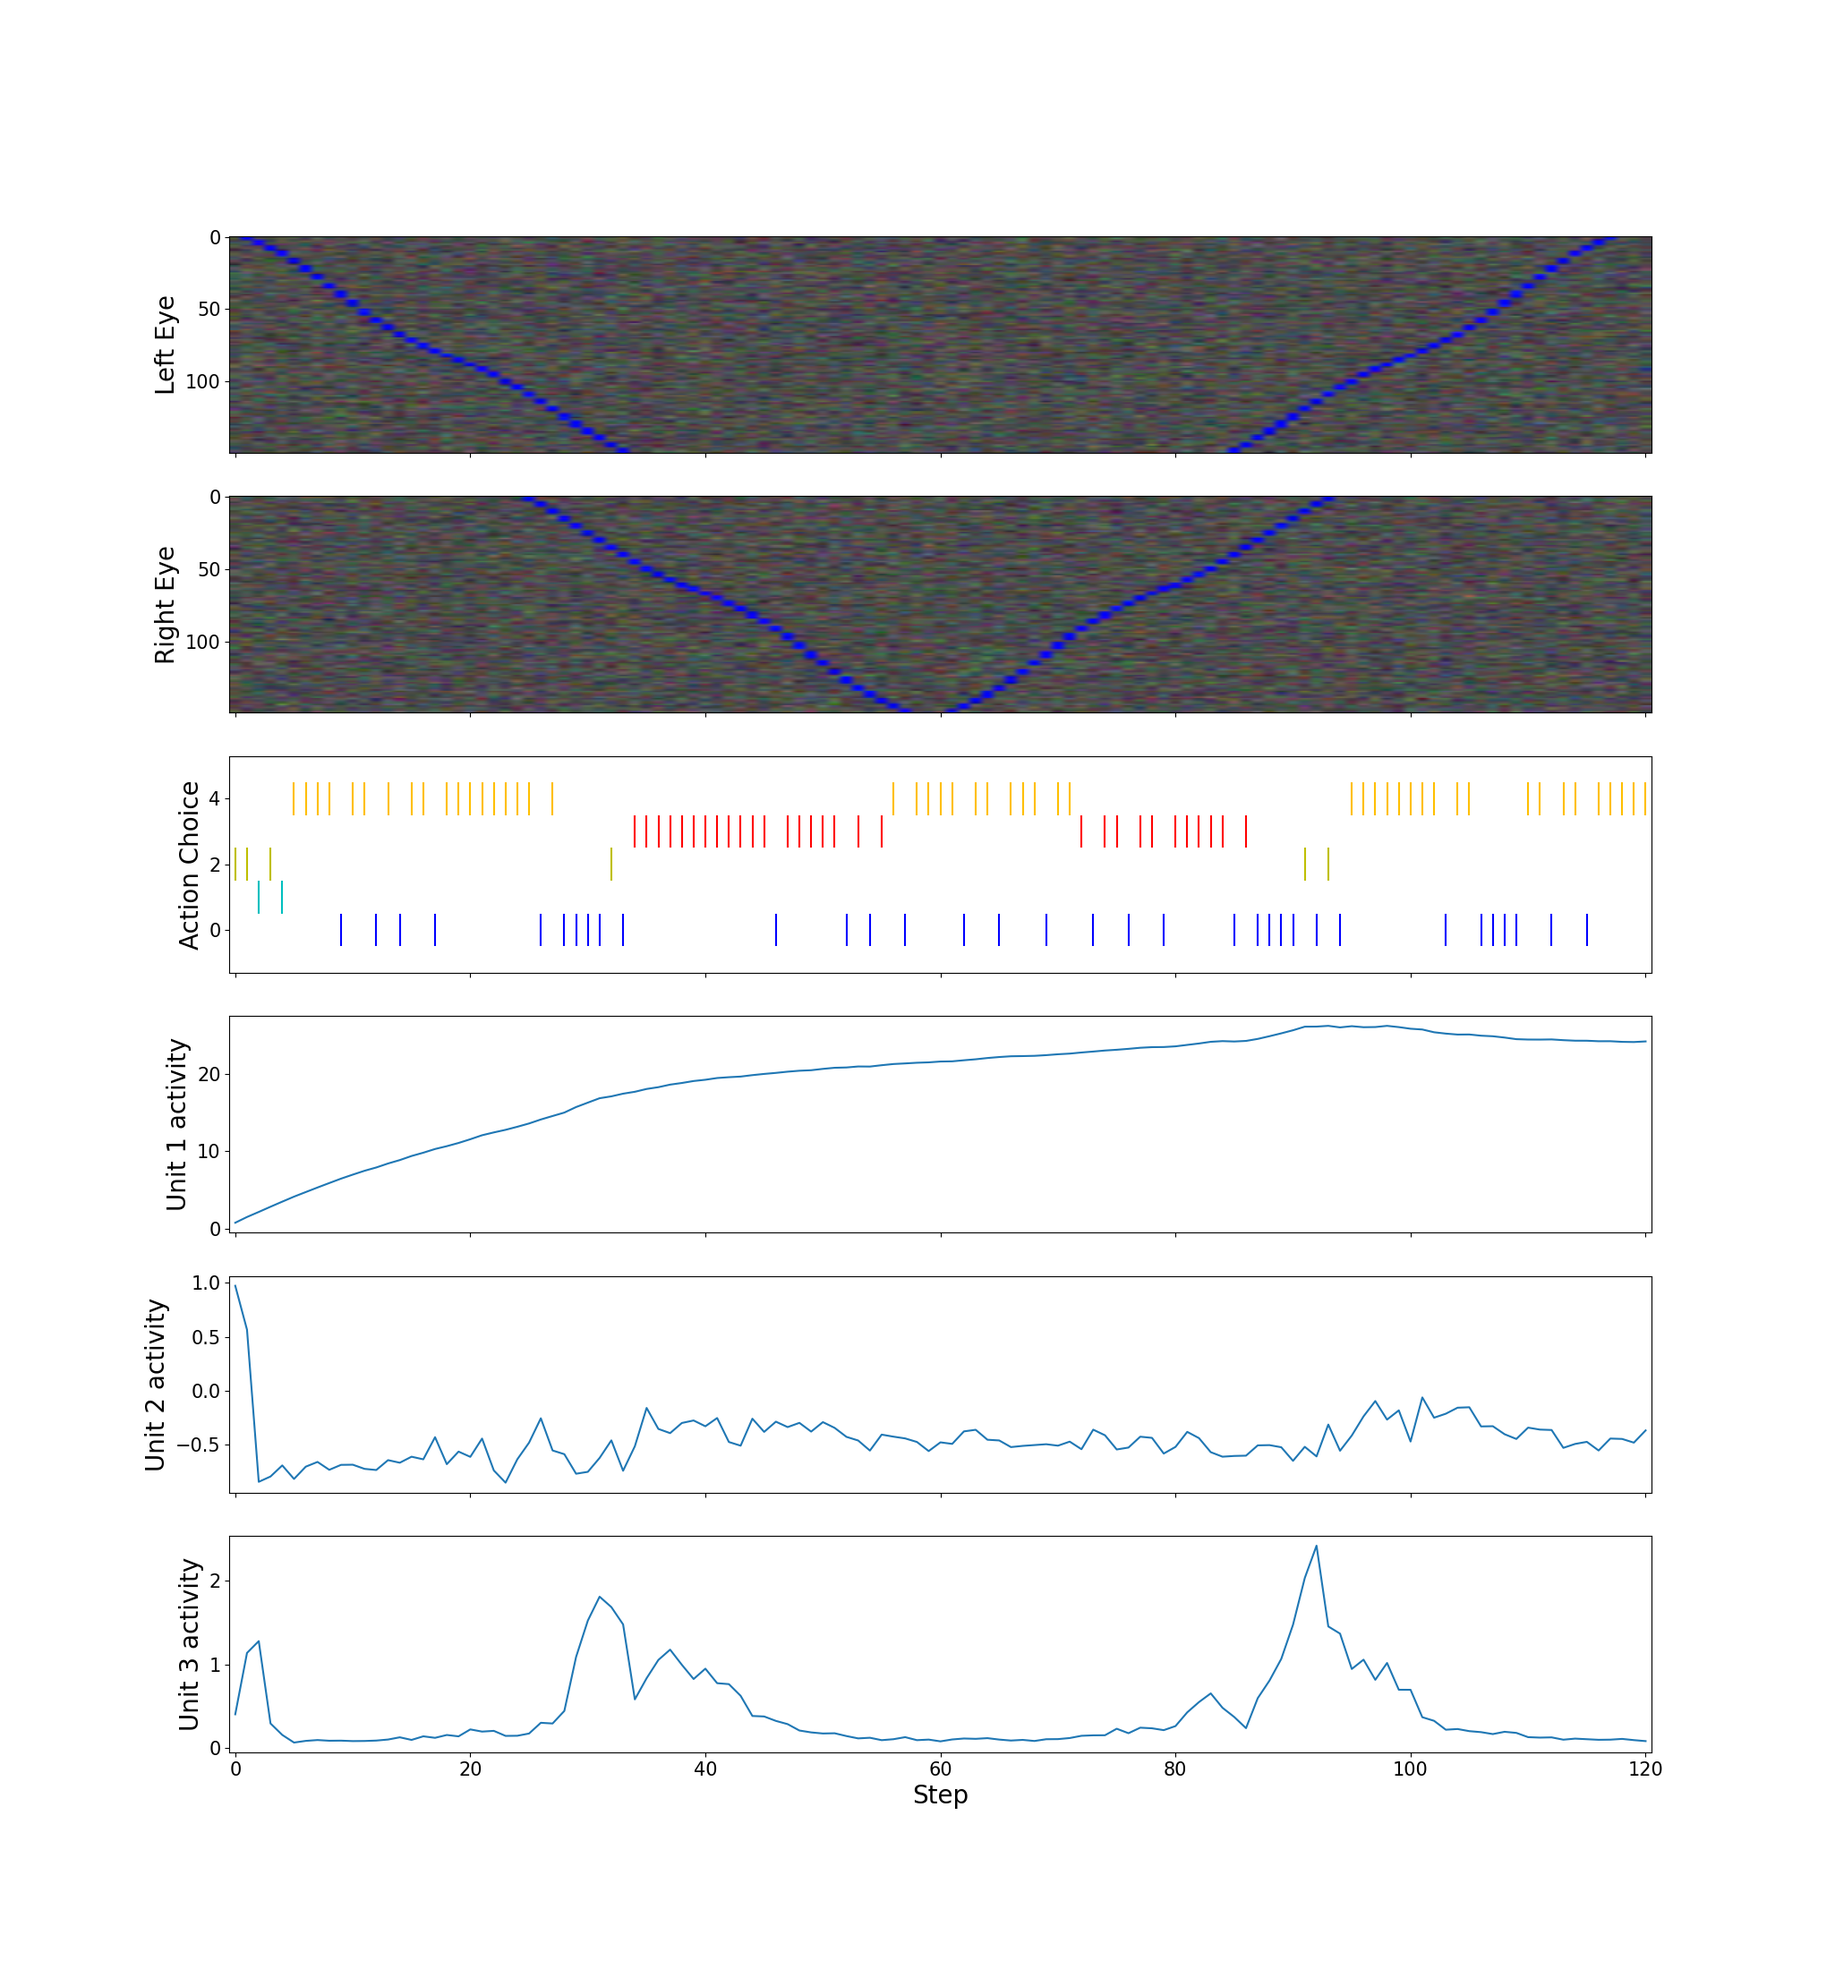
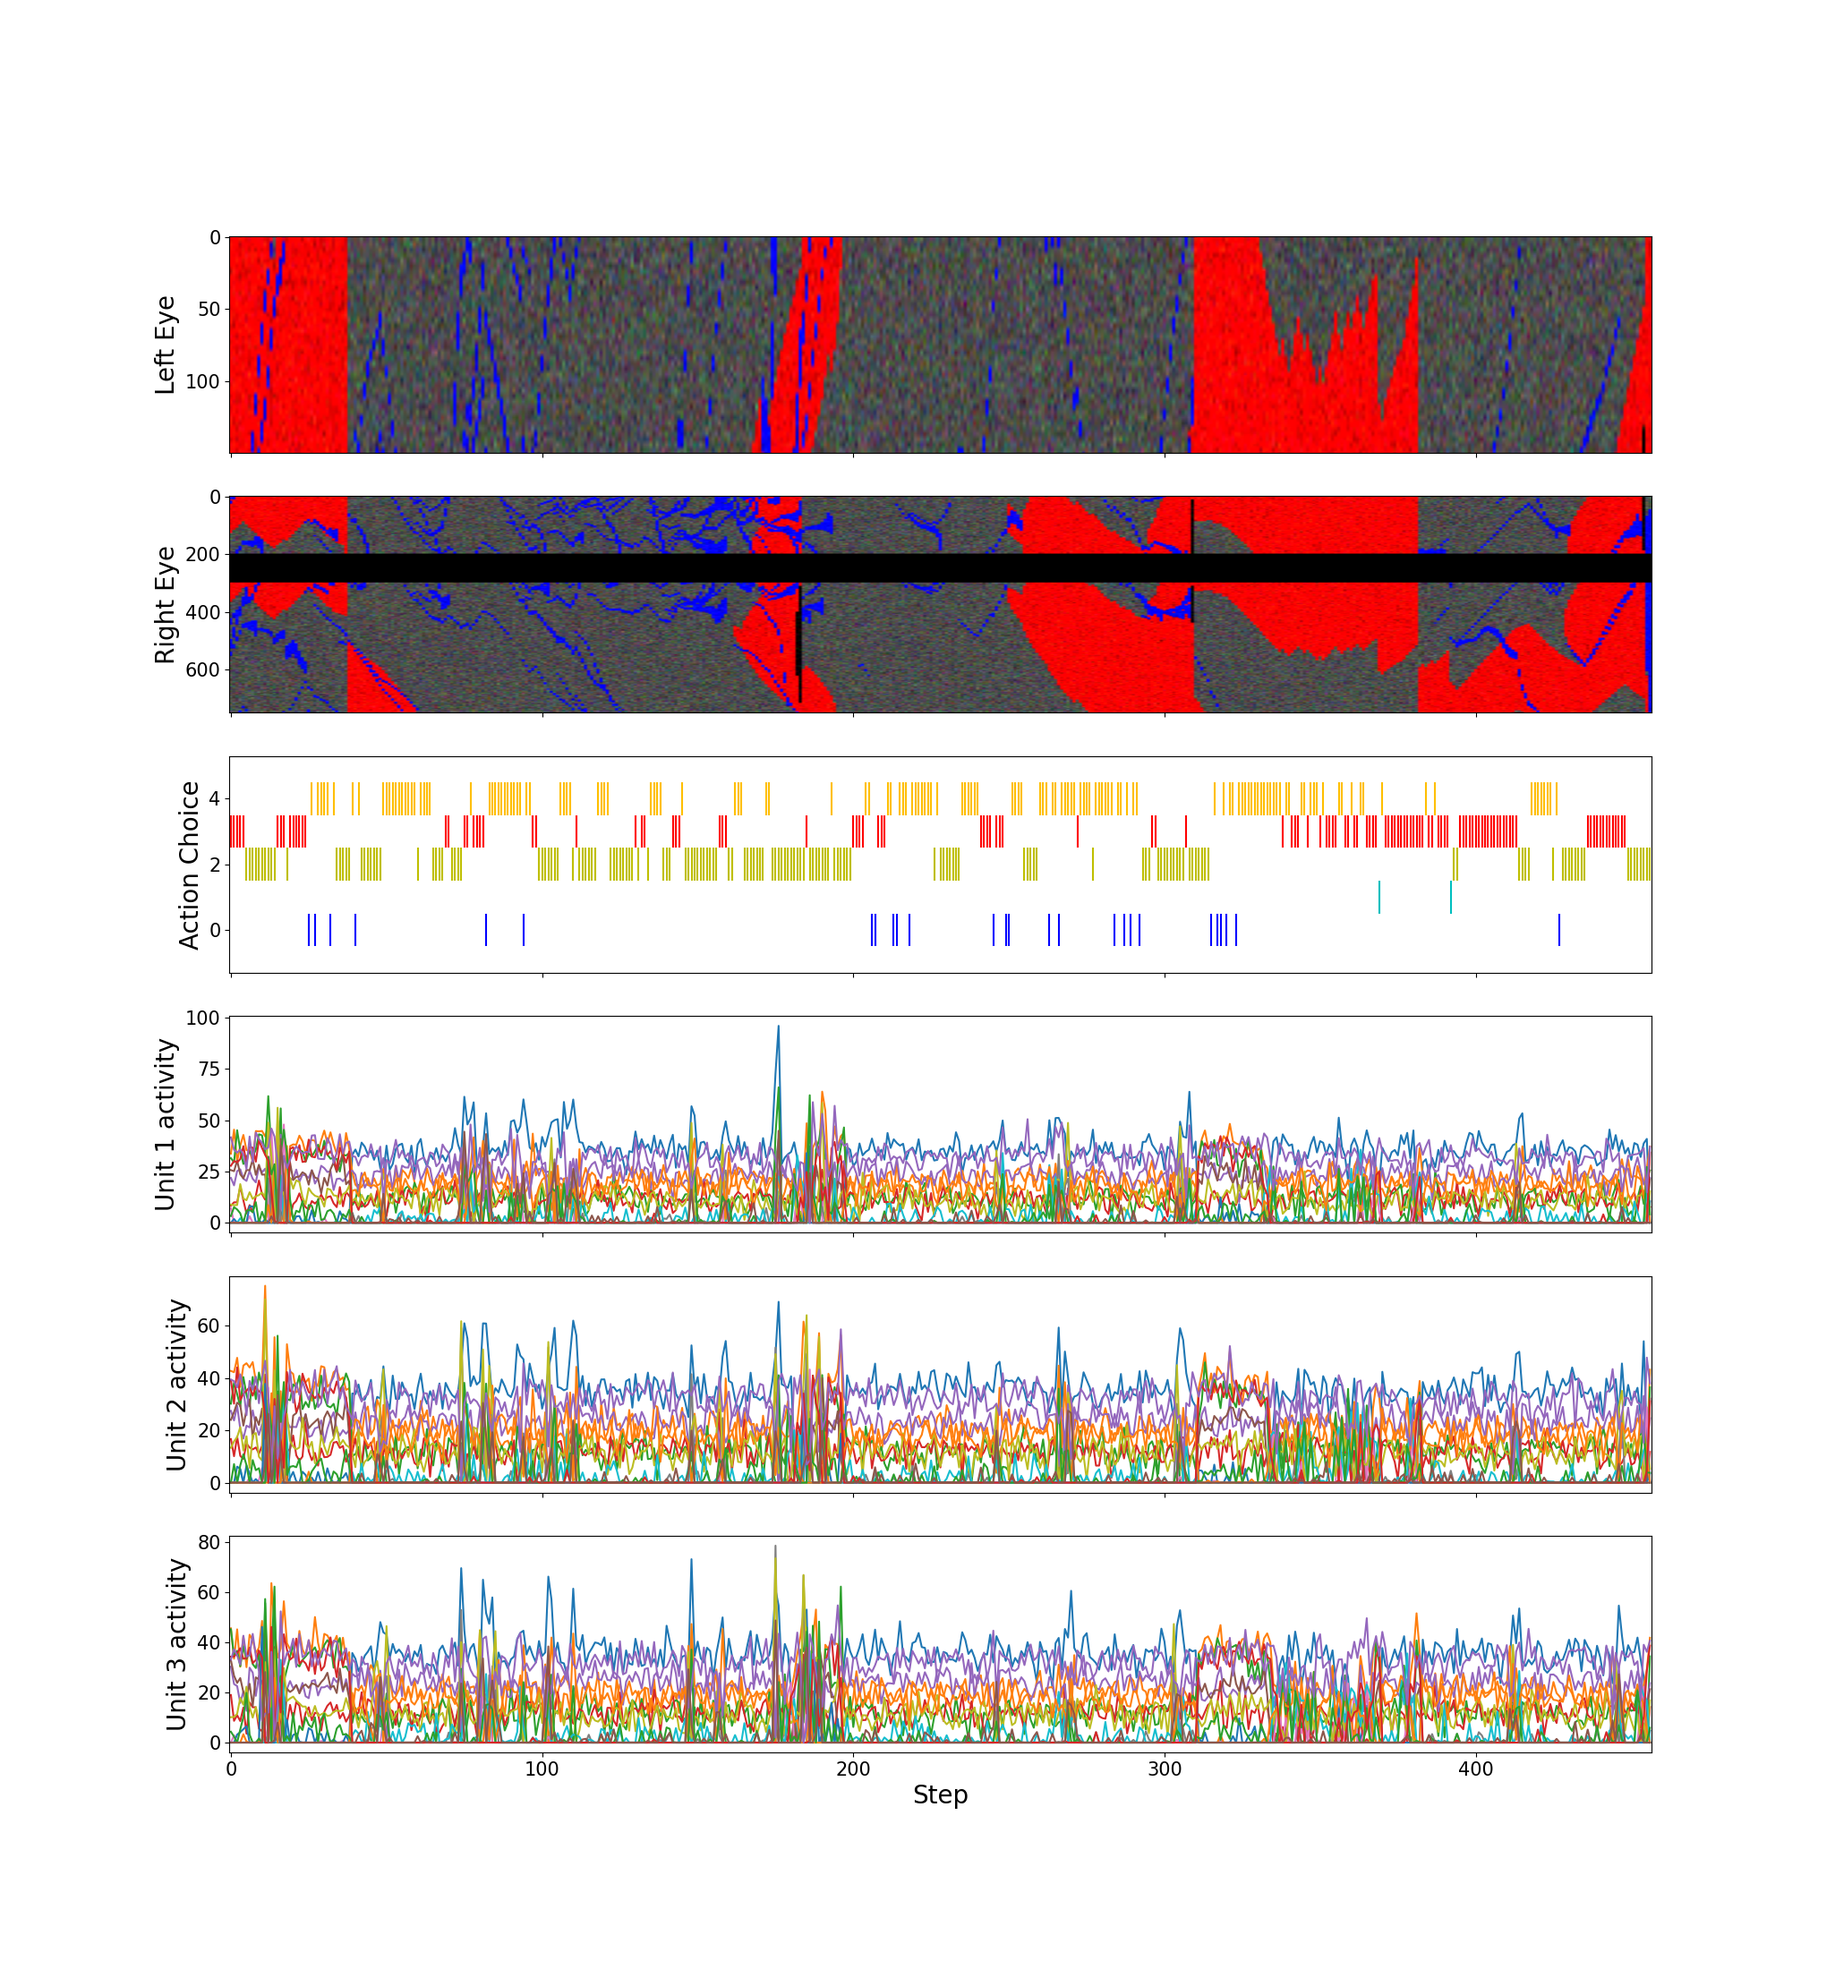
Some analysis script modifications. Added in saving of conv data.

diff --git a/Services/assay_service.py b/Services/assay_service.py
@@ -90,7 +90,8 @@ class AssayService:
         :return:
         """
         if assay["stimulus paradigm"] == "Projection":
-            self.simulation = ControlledStimulusEnvironment(self.environment_params, assay["stimuli"], self.realistic_bouts,
+            self.simulation = ControlledStimulusEnvironment(self.environment_params, assay["stimuli"],
+                                                            self.realistic_bouts,
                                                             tethered=assay["fish setup"])
         elif assay["stimulus paradigm"] == "Naturalistic":
             self.simulation = NaturalisticEnvironment(self.environment_params, self.realistic_bouts)
@@ -152,15 +153,19 @@ class AssayService:
                 break
 
     def step_loop(self, o, internal_state, a, rnn_state):
-        chosen_a, updated_rnn_state, sa, sv = self.sess.run(
-            [self.network.predict, self.network.rnn_state, self.network.streamA, self.network.streamV],
-            feed_dict={self.network.observation: o,
-                       self.network.internal_state: internal_state,
-                       self.network.prev_actions: [a],
-                       self.network.trainLength: 1,
-                       self.network.state_in: rnn_state,
-                       self.network.batch_size: 1,
-                       self.network.exp_keep: 1.0})
+        chosen_a, updated_rnn_state, sa, sv, conv1l, conv2l, conv3l, conv4l, conv1r, conv2r, conv3r, conv4r = \
+            self.sess.run(
+                [self.network.predict, self.network.rnn_state, self.network.streamA, self.network.streamV,
+                 self.network.conv1l, self.network.conv2l, self.network.conv3l, self.network.conv4l,
+                 self.network.conv1r, self.network.conv2r, self.network.conv3r, self.network.conv4r
+                 ],
+                feed_dict={self.network.observation: o,
+                           self.network.internal_state: internal_state,
+                           self.network.prev_actions: [a],
+                           self.network.trainLength: 1,
+                           self.network.state_in: rnn_state,
+                           self.network.batch_size: 1,
+                           self.network.exp_keep: 1.0})
         chosen_a = chosen_a[0]
         o1, given_reward, internal_state, d, self.frame_buffer = self.simulation.simulation_step(action=chosen_a,
                                                                                                  frame_buffer=self.frame_buffer,
@@ -171,7 +176,8 @@ class AssayService:
         possible_data_to_save = self.package_output_data(chosen_a, sa, updated_rnn_state,
                                                          self.simulation.fish.body.position,
                                                          self.simulation.prey_consumed_this_step,
-                                                         self.simulation.predator_body)  # TODO: Add in here
+                                                         self.simulation.predator_body,
+                                                         conv1l, conv2l, conv3l, conv4l, conv1r, conv2r, conv3r, conv4r)
         for key in self.assay_output_data_format:
             self.output_data[key].append(possible_data_to_save[key])
         self.output_data["step"].append(self.step_number)
@@ -215,7 +221,8 @@ class AssayService:
         with open(f"{self.data_save_location}/{self.assay_configuration_id}.json", "w") as output_file:
             json.dump(self.metadata, output_file)
 
-    def package_output_data(self, action, advantage_stream, rnn_state, position, prey_consumed, predator_body):
+    def package_output_data(self, action, advantage_stream, rnn_state, position, prey_consumed, predator_body,
+                            conv1l, conv2l, conv3l, conv4l, conv1r, conv2r, conv3r, conv4r,):
         """
 
         :param action:
@@ -240,7 +247,15 @@ class AssayService:
             "advantage stream": advantage_stream,
             "position": position,
             "observation": observation,
-        }  # Will work for now but note is inefficient # TODO: Add in here
+            "left_conv_1": conv1l,
+            "left_conv_2": conv2l,
+            "left_conv_3": conv3l,
+            "left_conv_4": conv4l,
+            "right_conv_1": conv1r,
+            "right_conv_2": conv2r,
+            "right_conv_3": conv3r,
+            "right_conv_4": conv4r,
+        }
 
         if prey_consumed:
             data["consumed"] = 1
@@ -267,7 +282,8 @@ class AssayService:
         # Saves all the information from the assays in JSON format.
         if assay["save frames"]:
             make_gif(self.frame_buffer, f"{self.data_save_location}/{assay['assay id']}.gif",
-                     duration=len(self.frame_buffer) * self.learning_params['time_per_step'], true_image=True) # TODO: Remove 100 to change back to normal.
+                     duration=len(self.frame_buffer) * self.learning_params['time_per_step'],
+                     true_image=True)  # TODO: Remove 100 to change back to normal.
         self.frame_buffer = []
         with open(f"{self.data_save_location}/{assay['assay id']}.json", "w") as output_file:
             json.dump(self.assay_output_data, output_file)

diff --git a/Analysis-Tools/plot_observation_action_choice_and_activity.py b/Analysis-Tools/plot_observation_action_choice_and_activity.py
@@ -51,29 +51,37 @@ def plot_all(rnn_data, observation, action_choice):
     fig.savefig('test2png.png', dpi=100)
     plt.show()
 
+
 def convert_photons_to_int(obs):
-    new_obs = np.zeros((121, 400, 3), int)
+    obs = np.array(obs)
+
+    new_obs = np.zeros(obs.shape, int)
     for i, time in enumerate(obs):
+        # if i == 121:
+        #     break
         for j, point in enumerate(obs[i]):
+            # if j == 400:
+            #     break
             for k, receptor in enumerate(obs[i][j]):
                 new_obs[i][j][k] = round(receptor)
     return new_obs
 
 
-data = load_data("Prey Stimuli", "Visual-Stimulus-Assay-2", "realistic_action_space-1")
+data = load_data("simple_actions", "All-Features", "realistic_all_features-1")
 
 # rnn_unit_1 = [i["rnn state"][0][0] for i in data]
 # rnn_unit_2 = [i["rnn state"][0][1] for i in data]
 # rnn_unit_3 = [i["rnn state"][0][2] for i in data]
 # rnn_unit_200 = [i["rnn state"][0][199] for i in data]
 
-rnn_unit_1 = [data["rnn state"][i-1][0][0] for i in data["step"]]
-rnn_unit_3 = [data["rnn state"][i-1][0][19] for i in data["step"]]
-rnn_unit_200 = [data["rnn state"][i-1][0][190] for i in data["step"]]
+conv_unit_1 = [data["left_conv_1"][i-1][0][0] for i in data["step"]]
+conv_unit_2 = [data["left_conv_1"][i-1][0][1] for i in data["step"]]
+conv_unit_3 = [data["left_conv_1"][i-1][0][2] for i in data["step"]]
+conv_unit_4 = [data["left_conv_1"][i-1][0][26] for i in data["step"]]
 
 
 action_choice = data["behavioural choice"]
-unit_activity = [rnn_unit_1, rnn_unit_3, rnn_unit_200]
+unit_activity = [conv_unit_1, conv_unit_2, conv_unit_3, conv_unit_4]
 
 
 observation = data["observation"]

diff --git a/Analysis-Tools/plot_activity.py b/Analysis-Tools/plot_activity.py
@@ -28,13 +28,13 @@ def plot_activity(rnn_data):
     plt.show()
 
 
-data = load_data("Prey Stimuli", "Visual-Stimulus-Assay-2")
+data = load_data("simple_actions", "All-Features", "realistic_all_features-1")
 
 
-rnn_unit_1 = [i["rnn state"][0][0] for i in data]
-rnn_unit_2 = [i["rnn state"][0][1] for i in data]
-rnn_unit_3 = [i["rnn state"][0][2] for i in data]
-rnn_unit_200 = [i["rnn state"][0][199] for i in data]
+rnn_unit_1 = [data["rnn state"][i-1][0][0] for i in data["step"]]
+rnn_unit_3 = [data["rnn state"][i-1][0][19] for i in data["step"]]
+rnn_unit_200 = [data["rnn state"][i-1][0][190] for i in data["step"]]
+conv_unit_1 = [data["left_conv_1"][i-1][0][0] for i in data["step"]]
 
-unit_activity = [rnn_unit_1, rnn_unit_2, rnn_unit_3, rnn_unit_200]
+unit_activity = [rnn_unit_1, rnn_unit_3, rnn_unit_200, conv_unit_1]
 plot_activity(unit_activity)

diff --git a/run.py b/run.py
@@ -144,8 +144,9 @@ asaph_data_configuration = [
                 "duration": 1000,
                 "fish setup": "Free",
                 "save frames": True,
-                "recordings": ["behavioural choice", "rnn state", "observation", "position", "consumed",
-                               "predator"],
+                "recordings": ["behavioural choice", "rnn state", "observation", "position", "consumed", "predator",
+                               "left_conv_1", "left_conv_2", "left_conv_3", "left_conv_4",
+                               "right_conv_1", "right_conv_2", "right_conv_3", "right_conv_4"],
                 "interactions": []
             }
         ],
